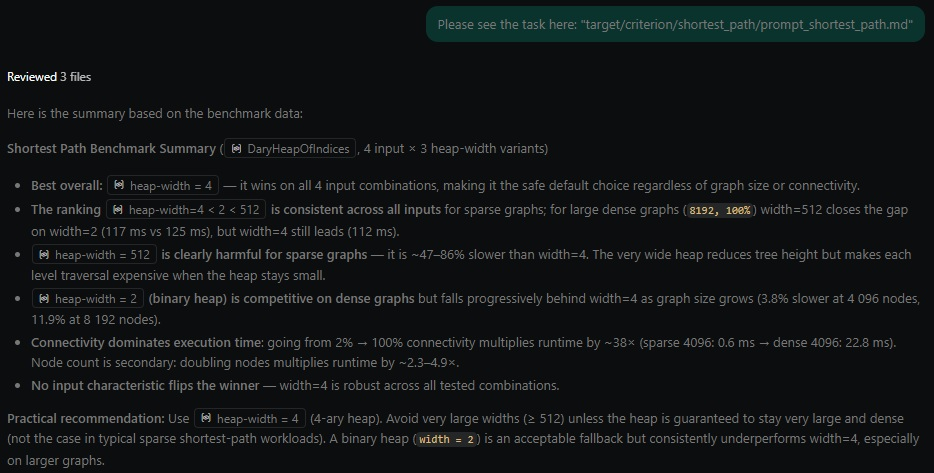
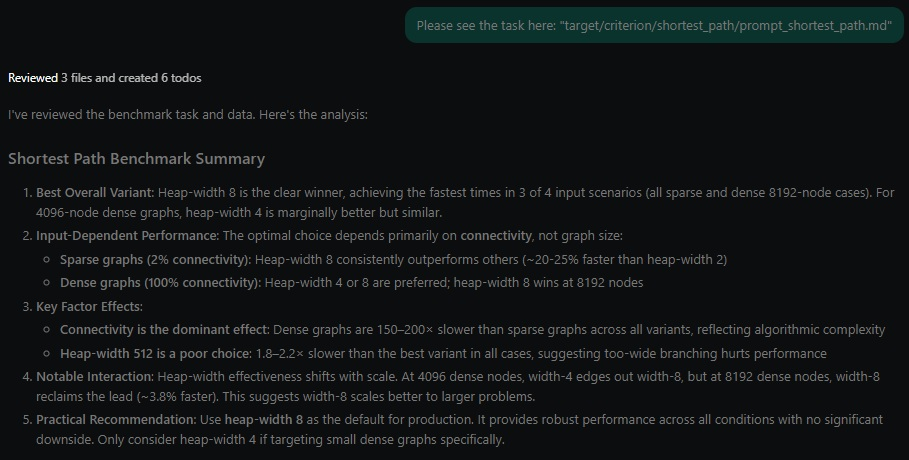
update doc impages

diff --git a/src/summary.rs b/src/summary.rs
@@ -197,8 +197,8 @@ fn print_summary_table<E: Experiment>(
                         .justify(justify)
                 };
                 let mut columns: Vec<_> = (0..3).map(|_| dash(1, Justify::Left)).collect(); // t i a
-                columns.extend((0..(num_columns - 3 - 2 - 1)).map(|_| dash(3, Justify::Left))); // factors
-                columns.push(dash(3, Justify::Right)); // time (ns)
+                columns.extend((0..(num_columns - 3 - 2 - 1)).map(|_| dash(5, Justify::Left))); // factors
+                columns.push(dash(5, Justify::Right)); // time (ns)
                 columns.extend((0..2).map(|_| dash(MAX_PROGRESS_BAR_WIDTH, Justify::Left))); // bars
                 columns
             });
